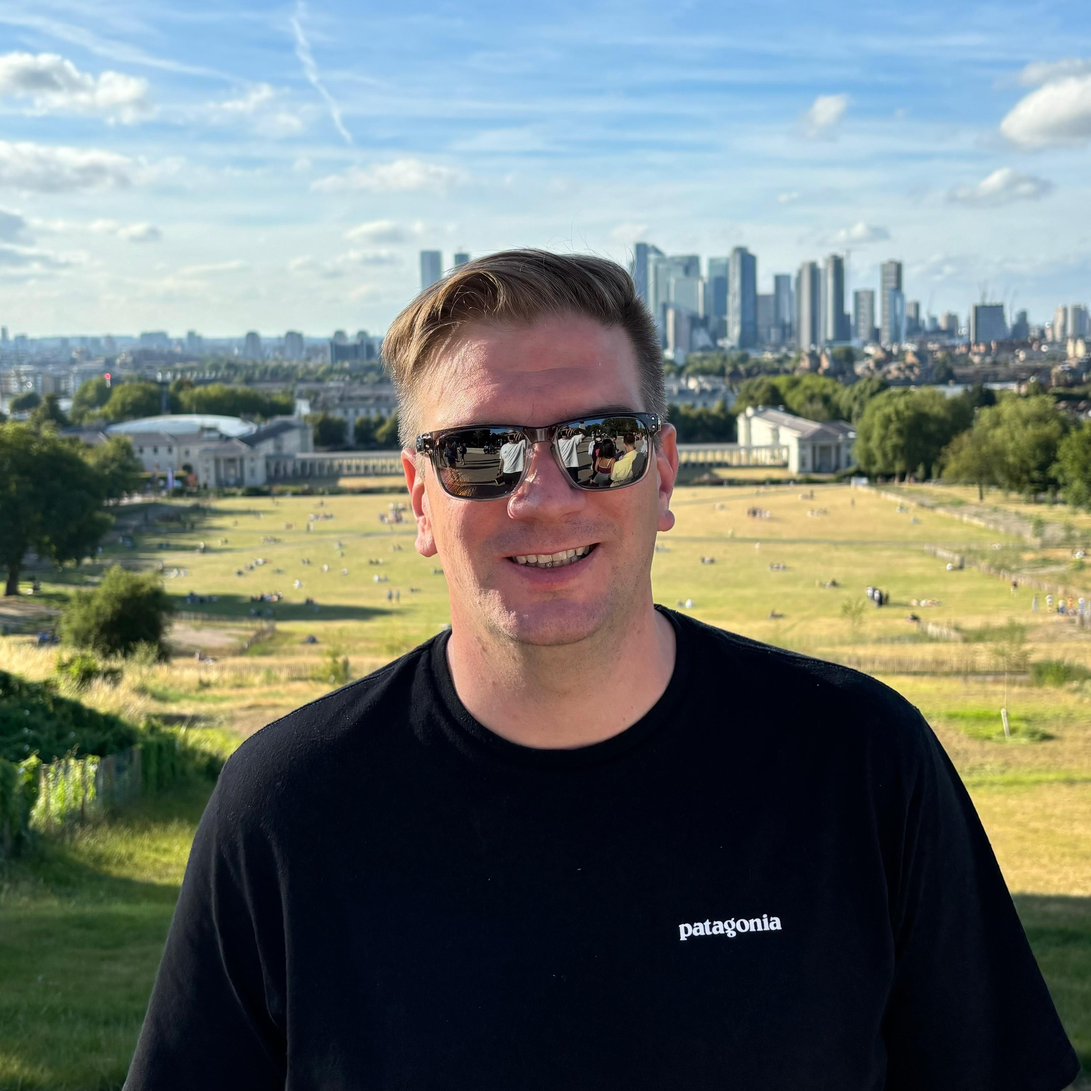
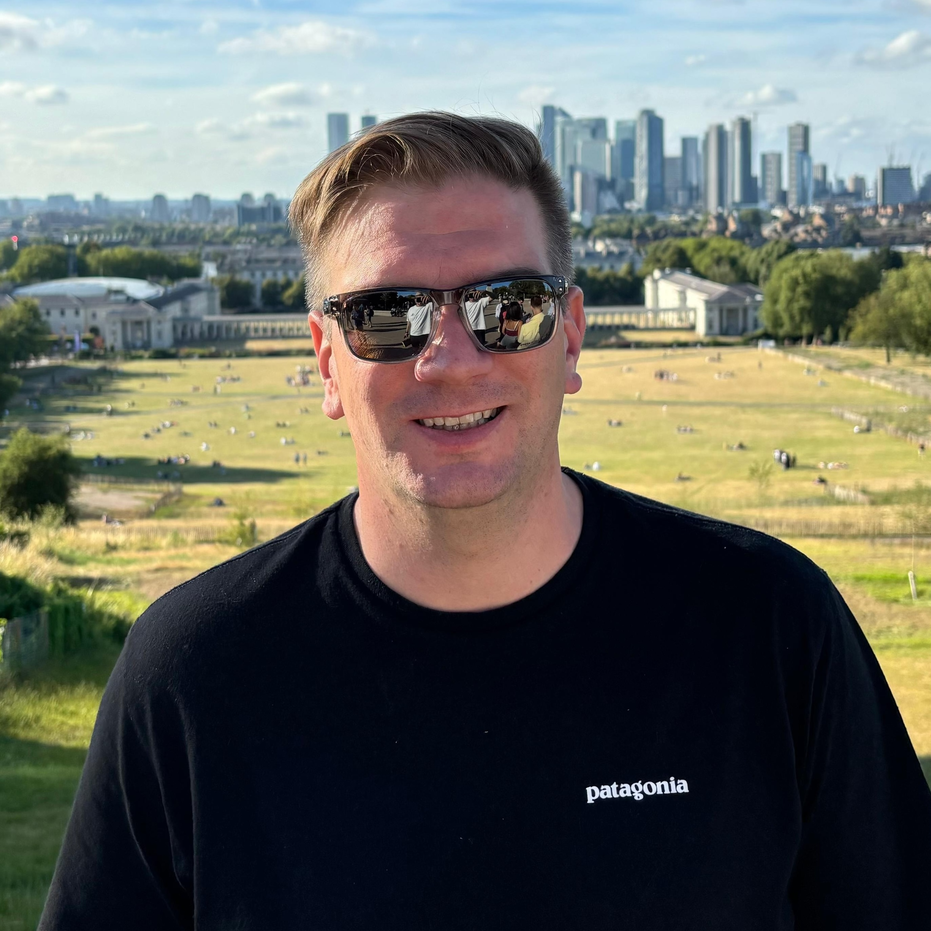
Updates

diff --git a/team.html b/team.html
@@ -33,7 +33,7 @@
     <div class="grid grid-cols-1 sm:grid-cols-2 lg:grid-cols-3 gap-10">
       <!-- Dmitry -->
       <div class="bg-white dark:bg-zinc-900 border border-gray-200 dark:border-zinc-800 p-6 rounded-lg shadow-sm text-center">
-        <img src="images/dmitry.jpg" alt="Dmitry Kan" class="mx-auto mb-4 w-28 h-28 rounded-full object-cover border border-gray-300 dark:border-zinc-700">
+        <img src="images/dima.jpg" alt="Dmitry Kan" class="mx-auto mb-4 w-28 h-28 rounded-full object-cover border border-gray-300 dark:border-zinc-700">
         <h2 class="text-xl font-semibold mb-1">Dmitry Kan</h2>
         <p class="text-sm text-teal-600 dark:text-teal-400 font-medium mb-3">CEO</p>
         <p class="text-sm text-gray-700 dark:text-gray-300">
